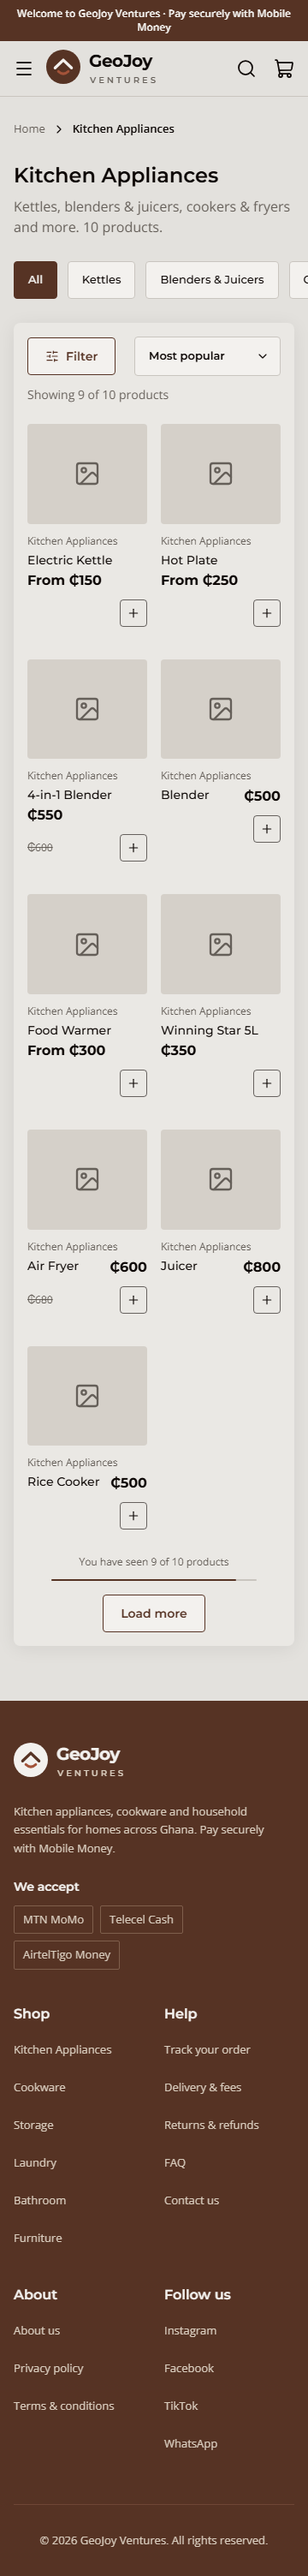
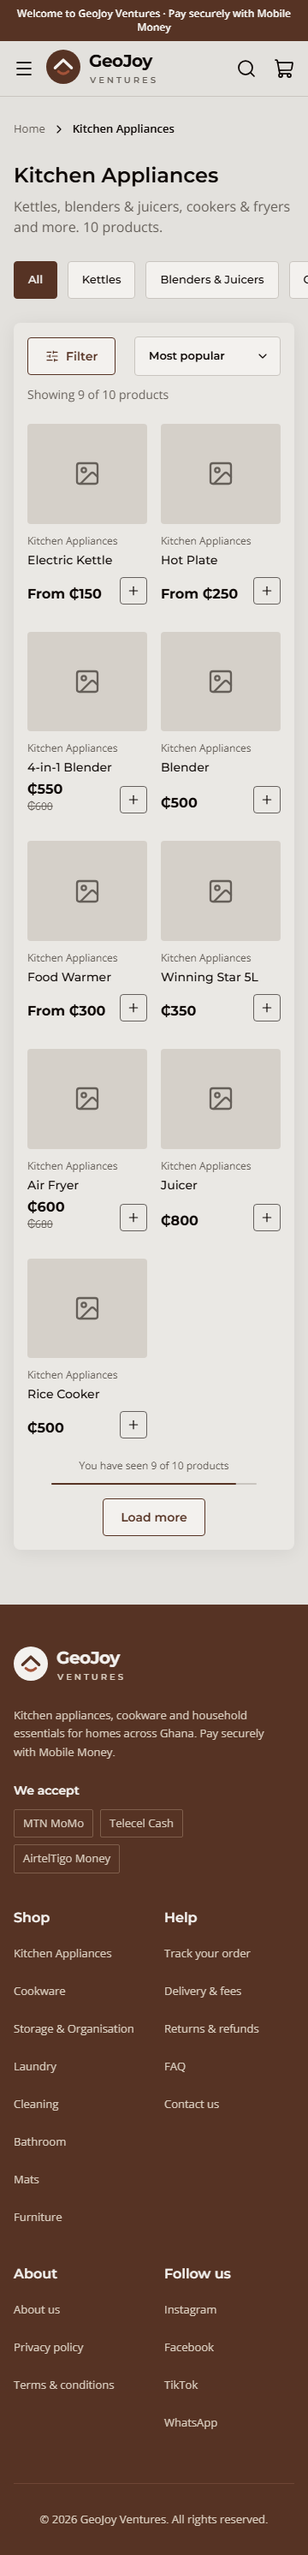
Align product card "+" buttons and show "Page x of y" on phones
- ProductCard is a full-height column; the price, old price and "+" row
  is pinned to the bottom, so "+" buttons line up across a row however
  the name or price wraps (Home, Category, All products).
- Pagination under 640 px shows previous, "Page 1 of 2", next.
- Re-took the 360 px Home, Category and All products screenshots.

diff --git a/src/components/ui/ProductCard.tsx b/src/components/ui/ProductCard.tsx
@@ -46,7 +46,8 @@ export function ProductCard({
   const shownBadge = inStock ? badge : { label: "Out of stock", tone: "neutral" as const };
 
   return (
-    <article className="relative flex flex-col gap-3">
+    // Full height of its grid or row cell, so the price row (and "+") lines up across a row.
+    <article className="relative flex h-full flex-col gap-3">
       <Thumbnail image={image} ratio={imageRatio} sizes={imageSizes}>
         {shownBadge && (
           <Badge tone={shownBadge.tone} className="absolute top-2 left-2">
@@ -65,34 +66,32 @@ export function ProductCard({
           </button>
         )}
       </Thumbnail>
-      <div className="flex flex-col gap-1">
+      <div className="flex flex-1 flex-col gap-1">
         <p className="text-xs text-muted">{category}</p>
-        {/* Wraps so a long price ("From ₵1,250") drops below the name on narrow cards. */}
-        <div className="flex flex-wrap items-start justify-between gap-x-2 gap-y-0.5">
-          <h3 className="min-w-0 text-sm font-medium text-ink">
-            <Link href={href} className="after:absolute after:inset-0 hover:text-brown-light">
-              {name}
-            </Link>
-          </h3>
-          <p className="shrink-0 font-heading text-base font-bold text-ink">
-            {priceFrom && "From "}
-            {formatCedis(price)}
-          </p>
-        </div>
-        <div className="flex items-center justify-between gap-2">
-          {oldPrice ? (
-            <p className="text-xs text-muted">
-              <span className="sr-only">Was </span>
-              <s>{formatCedis(oldPrice)}</s>
+        <h3 className="text-sm font-medium text-ink">
+          <Link href={href} className="after:absolute after:inset-0 hover:text-brown-light">
+            {name}
+          </Link>
+        </h3>
+        {/* Pinned to the bottom, so it lines up across a row however the name wraps. */}
+        <div className="mt-auto flex items-end justify-between gap-2">
+          <div className="min-w-0">
+            <p className="font-heading text-base font-bold text-ink">
+              {priceFrom && "From "}
+              {formatCedis(price)}
             </p>
-          ) : (
-            <span />
-          )}
+            {oldPrice ? (
+              <p className="text-xs text-muted">
+                <span className="sr-only">Was </span>
+                <s>{formatCedis(oldPrice)}</s>
+              </p>
+            ) : null}
+          </div>
           {chooseOptions ? (
             <Link
               href={href}
               aria-label={`Choose options for ${name}`}
-              className="group relative z-10 -mr-1.5 grid size-11 place-items-center"
+              className="group relative z-10 -mr-1.5 -mb-1.5 grid size-11 place-items-center"
             >
               <span className={plusClasses}>
                 <Plus className="size-4" {...iconProps} />
@@ -102,7 +101,7 @@ export function ProductCard({
             <button
               type="button"
               aria-label={`Add ${name} to bag`}
-              className="group relative z-10 -mr-1.5 grid size-11 place-items-center"
+              className="group relative z-10 -mr-1.5 -mb-1.5 grid size-11 place-items-center"
             >
               <span className={plusClasses}>
                 <Plus className="size-4" {...iconProps} />

diff --git a/src/components/catalogue/Pagination.tsx b/src/components/catalogue/Pagination.tsx
@@ -33,7 +33,8 @@ const linkClasses = cn(boxClasses, "border-line bg-field text-ink hover:bg-sand-
 
 /**
  * Numbered pagination as plain links (?page=n), so it works without JavaScript and the back button
- * returns to the previous page. Phones show previous, current and next only.
+ * returns to the previous page. Under 640 px: previous, "Page 1 of 2", next. Under 768 px: previous,
+ * current and next.
  */
 export function Pagination({ page, pageCount, hrefFor }: PaginationProps) {
   if (pageCount <= 1) return null;
@@ -53,13 +54,16 @@ export function Pagination({ page, pageCount, hrefFor }: PaginationProps) {
     <nav aria-label="Pagination">
       <ul className="flex items-center justify-center gap-2">
         <li>{step(page - 1, "Previous page", ChevronLeft)}</li>
+        <li className="px-2 text-sm text-ink sm:hidden">
+          Page {page} of {pageCount}
+        </li>
         {pageItems(page, pageCount).map((item, index) =>
           item === null ? (
             <li key={`gap-${index}`} aria-hidden="true" className="grid size-11 place-items-center text-muted max-md:hidden">
               …
             </li>
           ) : (
-            <li key={item} className={cn(item !== page && "max-md:hidden")}>
+            <li key={item} className={item === page ? "max-sm:hidden" : "max-md:hidden"}>
               <Link
                 href={hrefFor(item)}
                 aria-label={`Page ${item}`}
